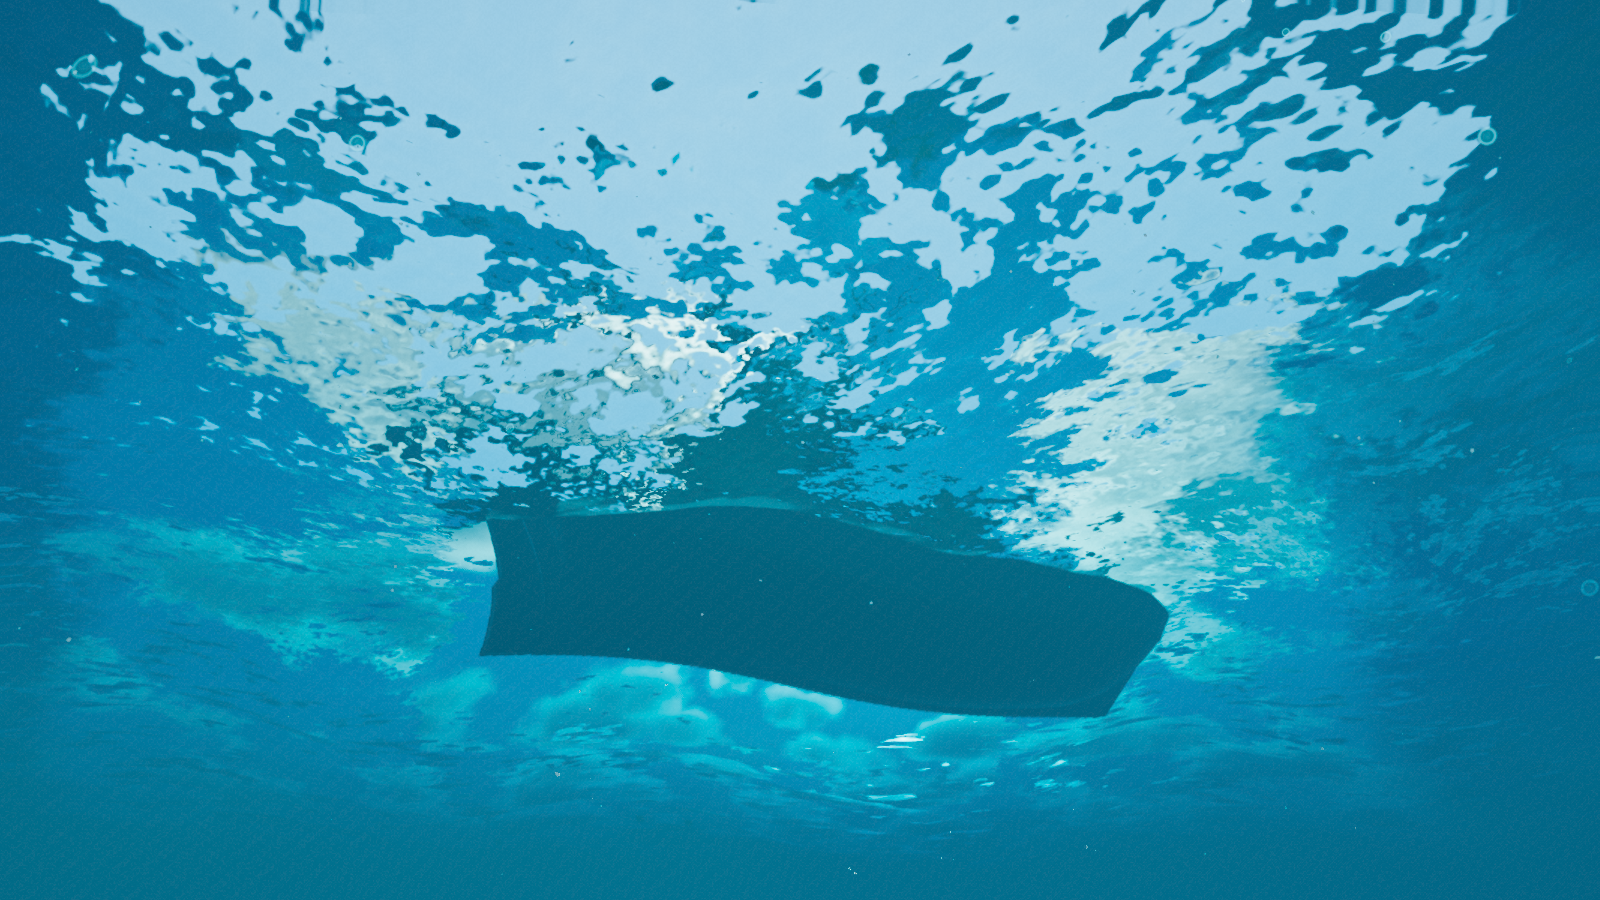
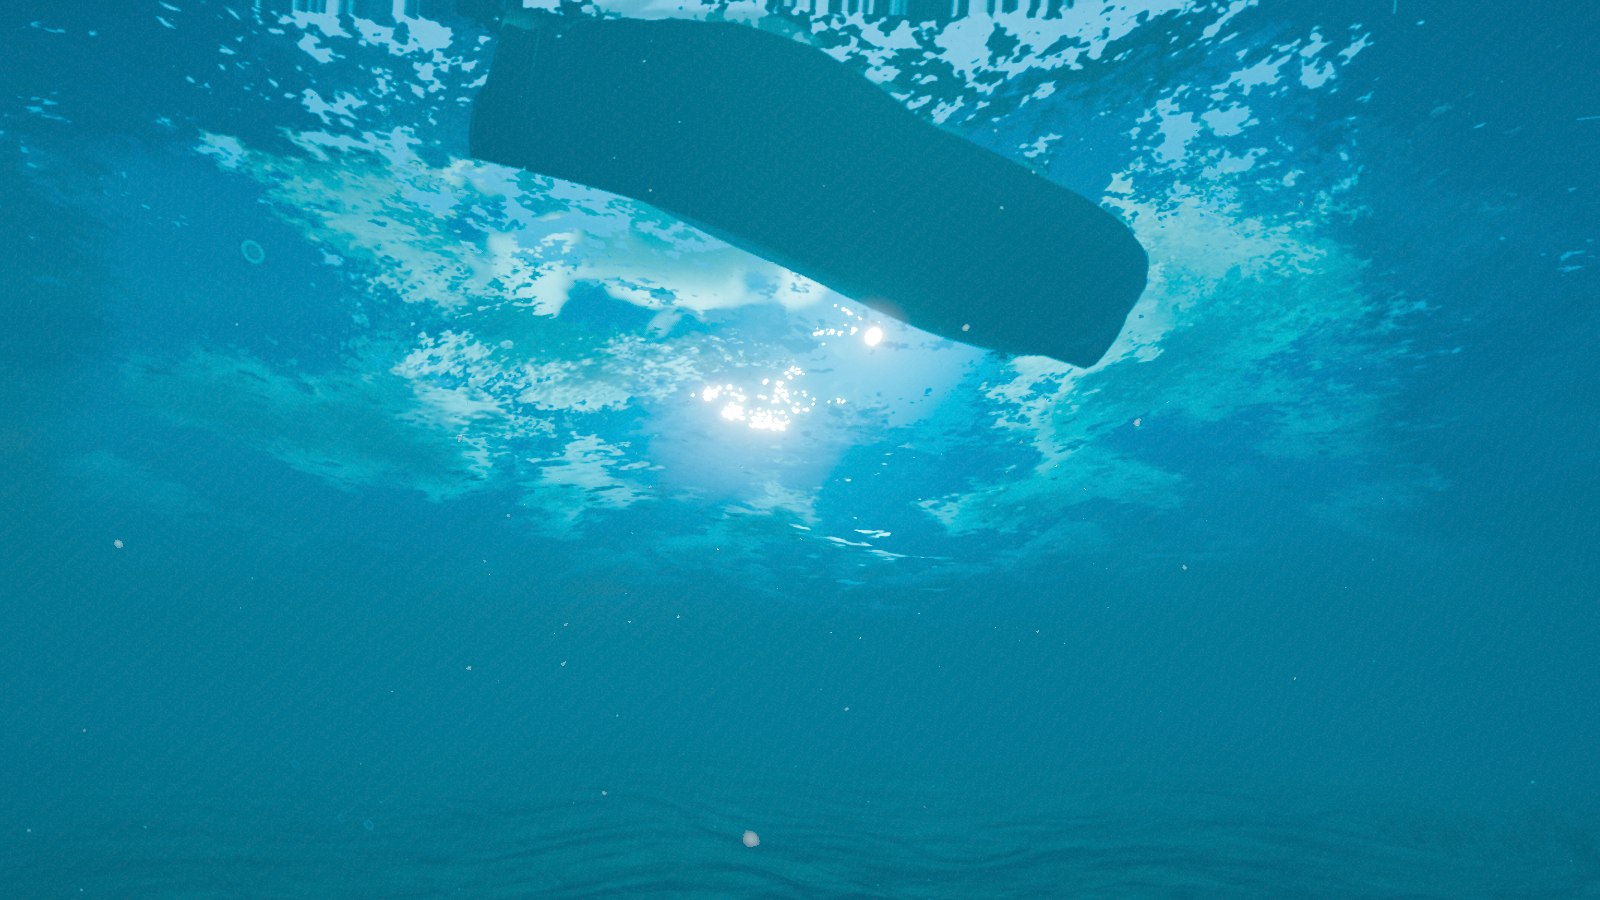
Docs: regenerate the gallery from the recomposed shots

diff --git a/README.md b/README.md
@@ -88,17 +88,17 @@ together, so switching reads as a different *place*, not a colour filter.
 | Under way | Underwater |
 |---|---|
 | ![Boat](docs/images/boat.png) | ![Underwater](docs/images/underwater.png) |
-| Chase camera at ~8 m/s: Kelvin wake, bow wave, hull in wave contact | Snell's window overhead, the hull's silhouette and its shadow in the shafts |
+| From a camera boat off the bow at ~8 m/s: bow wave, spray, the wake off the quarter | Snell's window overhead, the sun in it, and the hull's silhouette beside it |
 
 | Storm | Moonlit |
 |---|---|
 | ![Storm](docs/images/storm.png) | ![Moonlit](docs/images/moonlit.png) |
-| 21 m/s, overcast attenuating the key light, rain on the lens | Sun below the horizon: moon glitter, star field, long swell |
+| 21 m/s from the waterline, overcast attenuating the key light, rain on the lens | Sun below the horizon: the hull in the moon's glitter, long swell |
 
 | Sunset | Wave detail |
 |---|---|
 | ![Sunset](docs/images/sunset.png) | ![Waves](docs/images/waves.png) |
-| Anisotropic glitter stretching down the sun's track | Whitecaps where the surface genuinely folds, at 15 m/s |
+| The ship rim-lit beside the sun, the island's flank behind it, glitter down the sun's track | Whitecaps where the surface genuinely folds, at 15 m/s |
 
 | Clear day | The night watch |
 |---|---|
